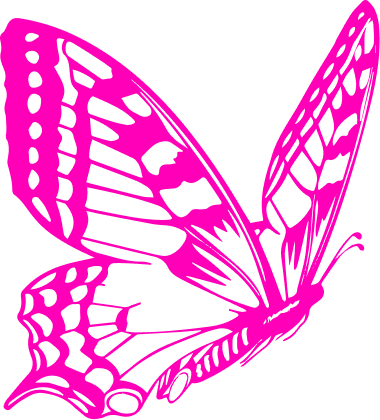
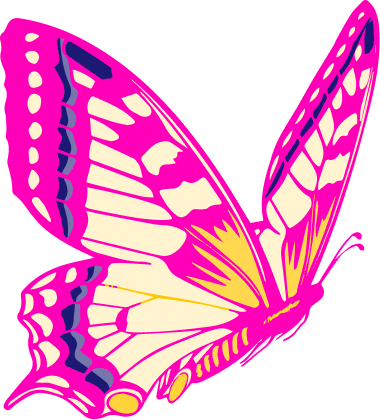
added filler, butterfly, and world images. Need to work on alignment and add words

Changed region(s): [[0.0579, 0.031, 0.9842, 0.9905], [0.0289, 0.9286, 0.0868, 0.9595]]

diff --git a/front-end-skills-test/src/App.js b/front-end-skills-test/src/App.js
@@ -4,7 +4,9 @@ import social from './images/socialMedia.png';
 import search from './images/searchCircle.png';
 import searchGlass from './images/carbon_search.png';
 import connect from './images/connectW.png';
-import rectangle from './images/Rectangle.png';
+import butterfly from './images/butterfly.png';
+import world from './images/world.png';
+import filler from './images/filler.png';
 import './App.css';
 
 function App() {
@@ -30,10 +32,15 @@ function App() {
 
     <div className='mainDiv'>
 
-   
-    <div className='rectangle'></div>
+    <div className='rectangle'>
+    <img className='butterfly' src={butterfly} alt='butterfly' />
+    <img className='filler' src={filler} alt='filler' />
+    <img className='world' src={world} alt='world' />
+    </div>
     <img className='logo' src={mpLogo} alt='mp logo'/>
     <img className='logoShape' src={mpLogoShape} alt='mp logo shape'/>
+
+
     </div>
 
 

diff --git a/front-end-skills-test/src/App.css b/front-end-skills-test/src/App.css
@@ -90,9 +90,9 @@ padding-left: 420px;
 .mainDiv {
   position: absolute;
   top: 80px;
-  left: 20px;
+  left: 30px;
   height: 550px;
-  width: 1227px;
+  width: 1210px;
   background-color: white;
   border-radius: 20px;
 }
@@ -107,5 +107,27 @@ padding-left: 420px;
     hsla(316, 100%, 50%, 1) 33%,
     hsla(47, 100%, 50%, 1) 88%
   );
+
+}
+
+.butterfly {
+ width: 120px;
+ position: absolute;
+ left: 300px;
+ top: 3px;
+}
+
+.world {
+  width: 180px;
+  position: absolute;
+  top: -10px;
+  left: 15px;
+}
+
+.filler {
+  position: absolute;
+  width: 20px;
+  left: 196px;
+  top: 55px;
 }
 
